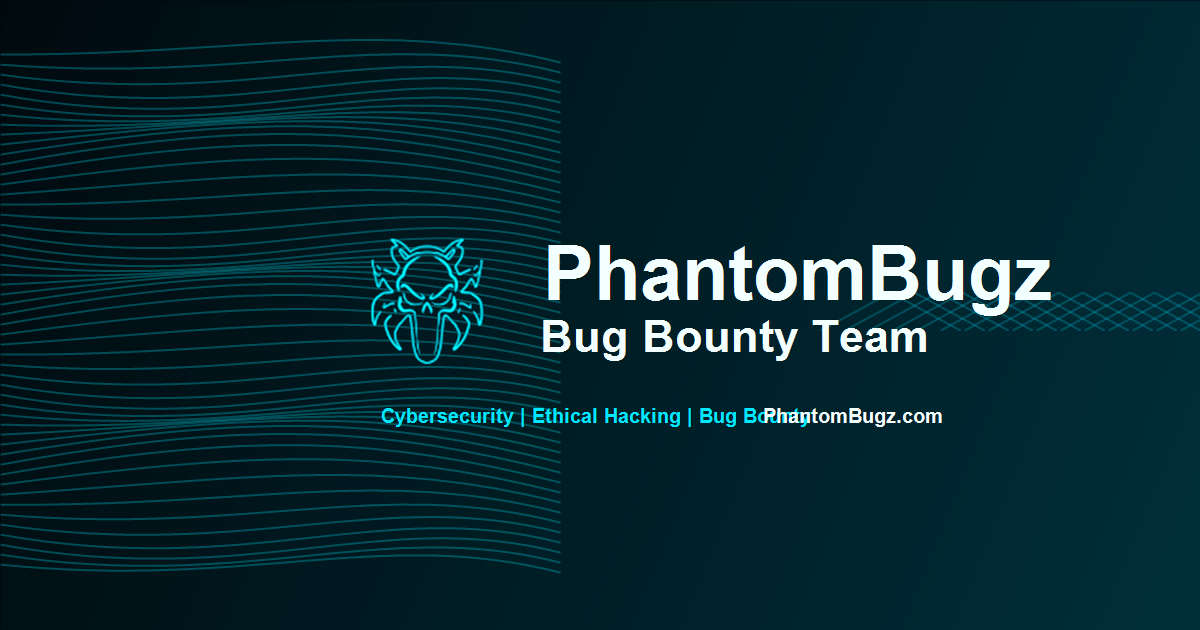
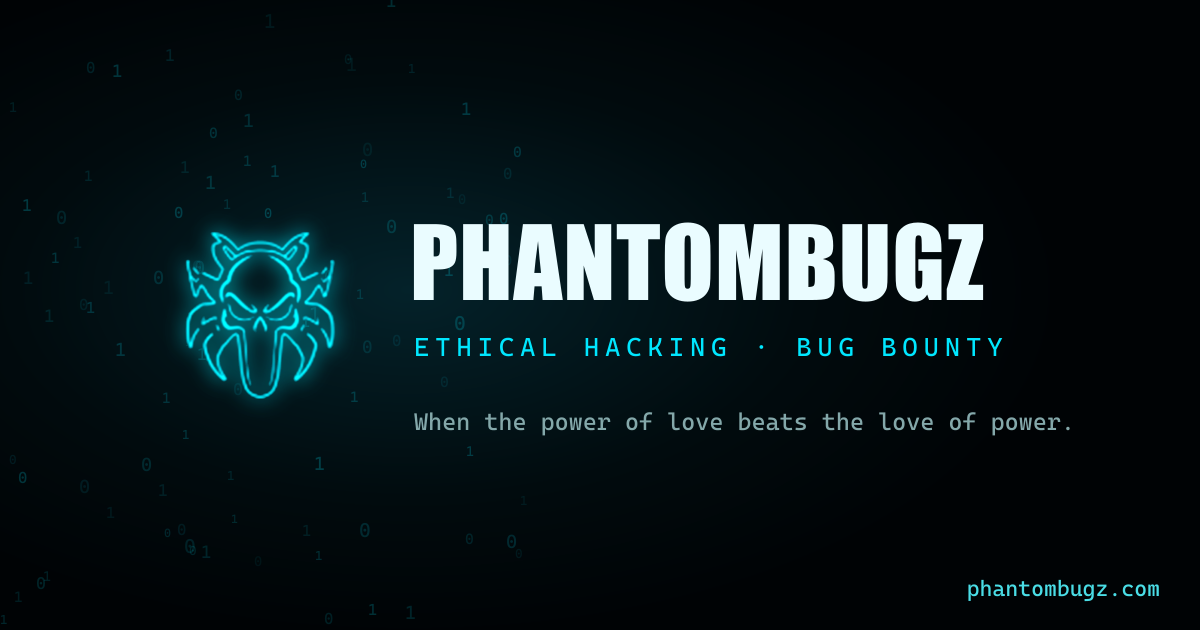
Mobile enter/scroll fixes, refreshed share image, animated beetle preview

diff --git a/styles.css b/styles.css
@@ -43,6 +43,7 @@ body {
 body.gate-open {
   overflow: hidden;
   height: 100vh;
+  height: 100dvh;
 }
 
 /* ---------- Enter gate ---------- */
@@ -318,6 +319,7 @@ a:focus-visible,
   position: sticky;
   top: 0;
   height: 100vh;
+  height: 100dvh; /* track the mobile URL bar so the sticky stage matches the viewport */
   overflow: hidden;
   perspective: 900px;
   perspective-origin: 50% 44%;
@@ -431,12 +433,28 @@ a:focus-visible,
   bottom: 26px;
   transform: translateX(-50%);
   margin: 0;
+  display: flex;
+  flex-direction: column;
+  align-items: center;
+  gap: 8px;
   font-size: .68rem;
   letter-spacing: .34em;
   text-transform: uppercase;
-  color: var(--muted);
+  color: var(--cyan);
+  text-shadow: 0 0 10px rgba(0, 231, 255, .5);
   opacity: calc(1 - var(--approach) * 2.4);
   pointer-events: none;
+}
+
+/* Animated down-chevron so the scroll affordance is unmistakable (esp. on mobile). */
+.scroll-cue::after {
+  content: "";
+  width: 14px;
+  height: 14px;
+  border-right: 2px solid var(--cyan);
+  border-bottom: 2px solid var(--cyan);
+  transform: rotate(45deg);
+  animation: cueChevron 1.8s ease-in-out infinite;
 }
 
 .scroll-cue span {
@@ -445,8 +463,13 @@ a:focus-visible,
 }
 
 @keyframes cuePulse {
-  0%, 100% { opacity: .45; transform: translateY(0); }
-  50% { opacity: 1; transform: translateY(4px); }
+  0%, 100% { opacity: .5; }
+  50% { opacity: 1; }
+}
+
+@keyframes cueChevron {
+  0%, 100% { opacity: .4; transform: rotate(45deg) translate(-2px, -2px); }
+  50% { opacity: 1; transform: rotate(45deg) translate(2px, 2px); }
 }
 
 /* ---------- Arrival ---------- */
@@ -806,10 +829,18 @@ a:focus-visible,
     font-size: .66rem;
   }
   .corridor {
-    height: 200vh;
+    height: 250vh; /* more scroll distance on mobile so the journey reads deliberately */
   }
   .corridor-viewport {
     perspective: 560px;
+  }
+  .scroll-cue {
+    bottom: 40px;
+    font-size: .74rem;
+  }
+  .scroll-cue::after {
+    width: 16px;
+    height: 16px;
   }
   .vault-grid {
     grid-template-columns: repeat(2, 1fr);

diff --git a/main.js b/main.js
@@ -36,14 +36,29 @@ function watchForSling() {
     }, 720);
   }
 
-  window.addEventListener(
-    "scroll",
-    () => {
-      const scrollable = corridor.offsetHeight - window.innerHeight;
-      const scrolled = Math.min(Math.max(-corridor.getBoundingClientRect().top, 0), Math.max(scrollable, 1));
-      const progress = scrollable > 0 ? scrolled / scrollable : 0;
-      if (progress >= 0.985) fireSling();
-    },
-    { passive: true }
-  );
+  // Mobile-safe progress: measure against the real scrollable range using
+  // documentElement, not vh math (which breaks with the mobile URL bar). Require
+  // the visitor to actually reach the very bottom so a flick can't skip through.
+  function progress() {
+    const max = document.documentElement.scrollHeight - window.innerHeight;
+    if (max <= 0) return 0;
+    const y = window.scrollY || document.documentElement.scrollTop || 0;
+    return Math.min(Math.max(y / max, 0), 1);
+  }
+
+  // Only sling once the user is essentially at the bottom AND has actually
+  // scrolled a meaningful distance (guards against instant-fire on load/flick).
+  let maxSeen = 0;
+  function check() {
+    const p = progress();
+    if (p > maxSeen) maxSeen = p;
+    if (p >= 0.995 && maxSeen >= 0.995) fireSling();
+  }
+
+  window.addEventListener("scroll", check, { passive: true });
+  window.addEventListener("resize", check, { passive: true });
+  if (window.visualViewport) {
+    window.visualViewport.addEventListener("resize", check, { passive: true });
+    window.visualViewport.addEventListener("scroll", check, { passive: true });
+  }
 }

diff --git a/js/gate.js b/js/gate.js
@@ -86,7 +86,8 @@ export function initGate(onEnter) {
   });
 
   let entered = false;
-  function enter() {
+  function enter(e) {
+    if (e) e.preventDefault();
     if (entered) return;
     entered = true;
     running = false;
@@ -100,6 +101,7 @@ export function initGate(onEnter) {
     flash.classList.add("fire");
 
     gate.classList.add("entering");
+    gate.style.pointerEvents = "none"; // stop any further taps immediately
     document.body.classList.remove("gate-open");
     if (onEnter) onEnter();
 
@@ -114,6 +116,8 @@ export function initGate(onEnter) {
     }
   }
 
+  // pointerup covers mouse + touch reliably (iOS click can be flaky/double-fire).
+  gate.addEventListener("pointerup", enter);
   gate.addEventListener("click", enter);
   gate.addEventListener("keydown", (e) => {
     if (e.key === "Enter" || e.key === " ") {

diff --git a/enter.html b/enter.html
@@ -14,7 +14,10 @@
   <meta property="og:description" content="A team strong enough to destroy. We choose to protect. See the live bounty signal and the limited Ghost Series.">
   <meta property="og:type" content="website">
   <meta property="og:url" content="https://phantombugz.com/enter.html">
-  <meta property="og:image" content="https://phantombugz.com/assets/exports/phantombugz-og-image.png">
+  <meta property="og:image" content="https://phantombugz.com/assets/exports/phantombugz-og-image.gif">
+  <meta property="og:image:type" content="image/gif">
+  <meta property="og:image:width" content="800">
+  <meta property="og:image:height" content="420">
   <meta name="twitter:card" content="summary_large_image">
   <meta name="twitter:title" content="PhantomBugz — Ethical Hackers, Bug Bounty &amp; the Ghost Series">
   <meta name="twitter:description" content="When the power of love beats the love of power.">

diff --git a/index.html b/index.html
@@ -14,7 +14,10 @@
   <meta property="og:description" content="A team strong enough to destroy. We choose to protect. Bug bounty operation, live signal, and the limited Ghost Series.">
   <meta property="og:type" content="website">
   <meta property="og:url" content="https://phantombugz.com/">
-  <meta property="og:image" content="https://phantombugz.com/assets/exports/phantombugz-og-image.png">
+  <meta property="og:image" content="https://phantombugz.com/assets/exports/phantombugz-og-image.gif">
+  <meta property="og:image:type" content="image/gif">
+  <meta property="og:image:width" content="800">
+  <meta property="og:image:height" content="420">
   <meta name="twitter:card" content="summary_large_image">
   <meta name="twitter:title" content="PhantomBugz — Ethical Hacking &amp; Bug Bounty Team">
   <meta name="twitter:description" content="When the power of love beats the love of power.">